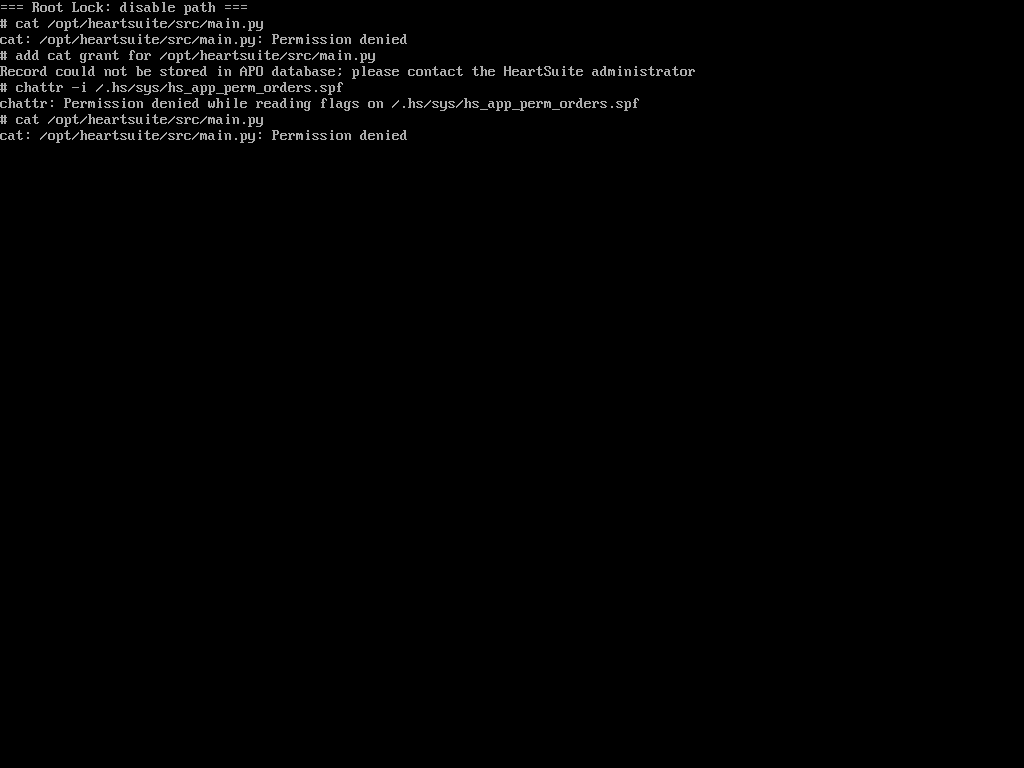
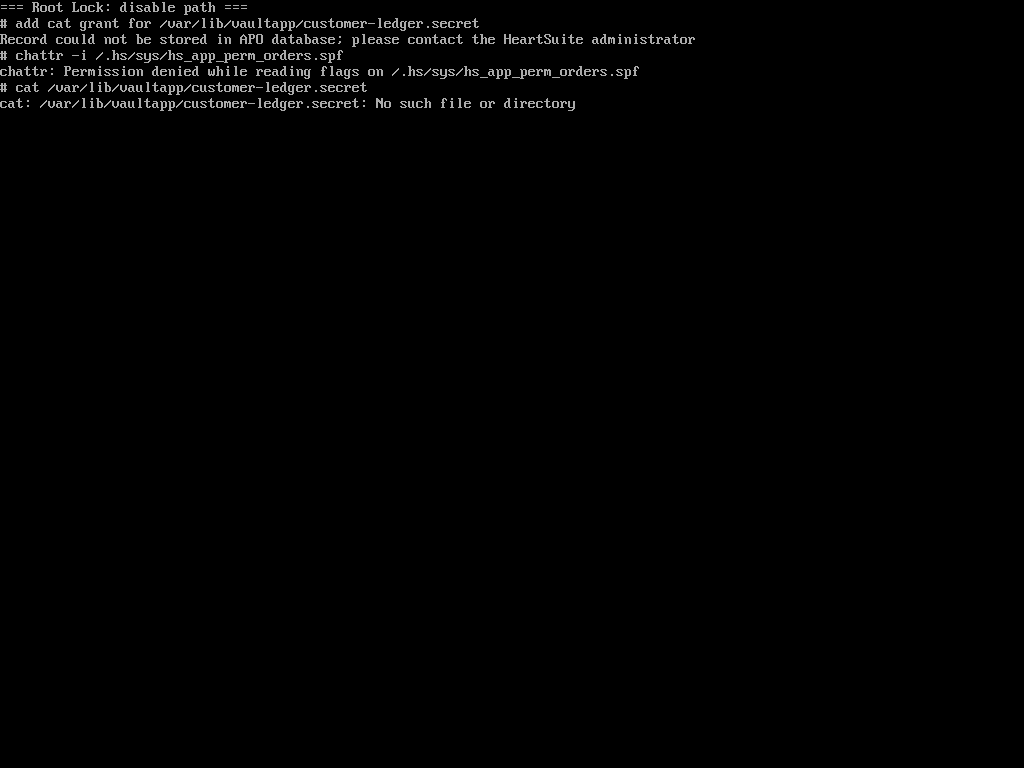
docs: drop SPDX residual and internal allowlist dump
Root Lock half is mkdir 242, vaultapp exec denied, grant write
refused, chattr refused. Recapture stills to match.

Changed region(s): [[0.0, 0.0312, 0.6875, 0.1875], [0.5312, 0.125, 0.625, 0.1562]]

diff --git a/content/en/blog/2026-09-11-lockdown-after-a-root-shell/index.md b/content/en/blog/2026-09-11-lockdown-after-a-root-shell/index.md
@@ -4,7 +4,7 @@ linkTitle: "Lockdown after a root shell"
 date: 2026-09-11
 slug: lockdown-after-a-root-shell
 draft: false
-description: "On stock AppArmor and targeted SELinux, unconfined root read another application's file until extra policy was added, then turned that policy off without a reboot. Under Lockdown the same ledger path could not be created, the allowlist write was refused, and cat stayed denied."
+description: "On stock AppArmor and targeted SELinux, unconfined root read another application's file until extra policy was added, then turned that policy off without a reboot. Under Lockdown the same ledger path could not be created, and the allowlist write was refused."
 author: "Ron Hessing"
 tags: ["root-lock", "selinux", "apparmor", "lockdown", "allowlisting"]
 toc: true
@@ -85,47 +85,31 @@ mkdir: cannot create directory '/var/lib/vaultapp': Unknown error 242
 bash: /usr/local/bin/vaultapp: Permission denied
 ```
 
-The kernel refused the create. An empty `vaultapp` leftover from an earlier attempt could not be rewritten or executed.
+The kernel refused the create.
 
-![Root Lock refuses the ledger path; python3 still reads its own tree](rootlock-same-path.png)
-
-What is already on disk is a file the Dashboard interpreter is granted: `/opt/heartsuite/src/main.py`. `/usr/bin/cat` is allowlisted for `/.hs/sys`, `/etc`, `/run`, `/proc`, `/usr/lib`.
-
-```text
-# cat /opt/heartsuite/src/main.py
-cat: /opt/heartsuite/src/main.py: Permission denied
-```
+![Root Lock refuses the ledger path](rootlock-same-path.png)
 
 `setenforce` and `aa-disable` are not installed on this Debian guest.
 
 | Move | Result under Lockdown |
 |---|---|
-| add a `cat` grant for that path | `Record could not be stored in APO database` |
+| add a `cat` grant for the ledger | `Record could not be stored in APO database` |
 | `chattr -i` on the allowlist | `Permission denied while reading flags` |
-| `cat` again | still Permission denied |
+| `cat` of the ledger | No such file or directory |
 
-![Root Lock denies cat and refuses the allowlist write](rootlock-denied.png)
+![Root Lock refuses the allowlist write](rootlock-denied.png)
 
 The allowlist is sealed. The files are immutable, and the kernel refuses the write.
-
-`/usr/bin/python3` is the Dashboard interpreter and is granted `/opt/heartsuite`. A root shell can invoke that same binary:
-
-```text
-# python3 -c "print(open('/opt/heartsuite/src/main.py').readline())"
-# SPDX-License-Identifier: BUSL-1.1
-```
-
-Grants follow the program. If the interpreter at the keyboard is the program granted that tree, the tree is readable. A guest image for a tool-using agent would grant that interpreter its own tree. The same residual is in the [ExploitGym write-up](/blog/2026-09-10-would-root-lock-have-stopped-the-july-2026-agent-swarm/).
 
 ## What the kernel refused
 
 | Step | AppArmor | SELinux | Root Lock in Lockdown |
 |---|---|---|---|
 | Default distro policy vs unconfined root `cat` of the ledger | Allowed | Allowed | `mkdir /var/lib/vaultapp` refused |
-| After a deny for `cat` on that path | Denied | Denied | Already denied |
-| Owning program | `vaultapp` still reads | `vaultapp` still reads | `vaultapp` could not be written or executed |
+| After a deny for `cat` on that path | Denied | Denied | Already refused |
+| Owning program | `vaultapp` still reads | `vaultapp` still reads | `vaultapp` could not be executed |
 | Documented root disable | `aa-disable` the profile | `setenforce 0` | Allowlist add refused; `chattr` refused |
-| Second `cat` | Ledger in the clear | Ledger in the clear | Still denied |
+| Second `cat` | Ledger in the clear | Ledger in the clear | No such file or directory |
 
 SELinux and AppArmor are LSM policy root can set permissive or unload. Root Lock is compiled into the kernel; Lockdown seals the allowlist.
 
